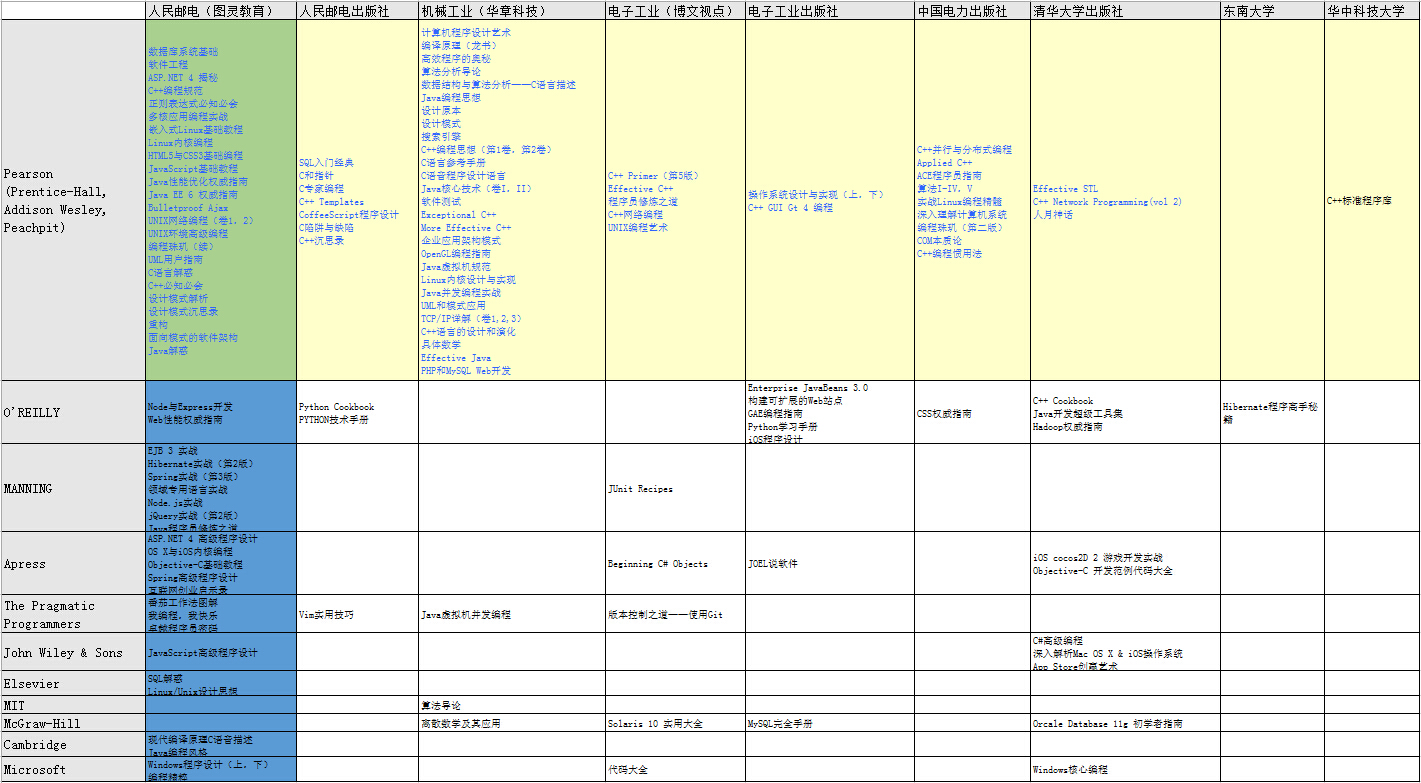
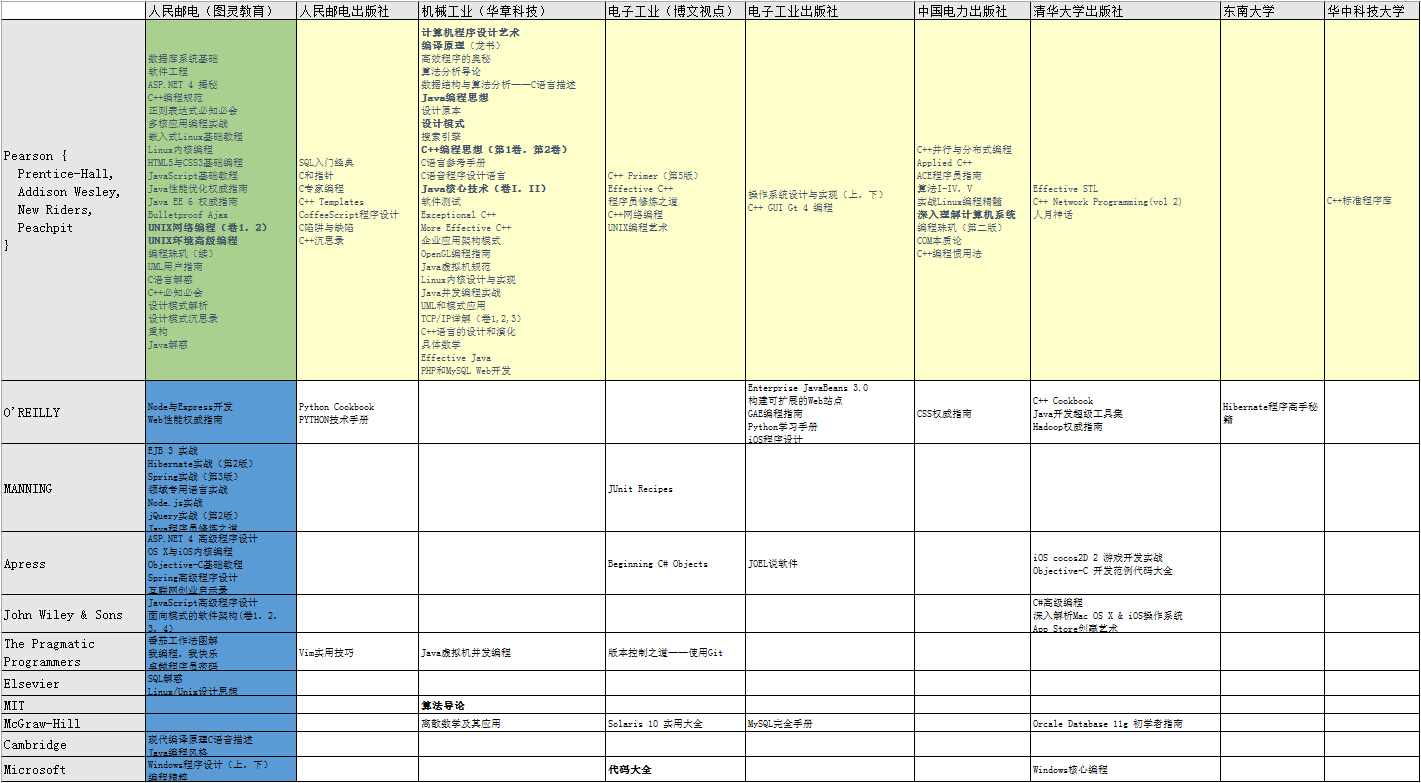
update

diff --git a/_posts/2015-02-28-my-books.md b/_posts/2015-02-28-my-books.md
@@ -1,16 +1,18 @@
 ---
 layout: post
-title:  "图书出版社分布图"
+title:  "关于计算机图书出版社的‘小数据’分析"
 date:   2015-02-28 21:41:00
 tag:    读书
 categories: SharePoint
 ---
-不知道别人有没有这个烦恼，无论按照大小高低、技术分类、出版社分类，家里的书都不太好摆放。今天突发奇想，对书的出版社进行一下归纳，于是做了一个Excel表格出来。
+今天突发奇想，对家里的计算机书的出版社数据进行一下分析。由于数量较少，所以称为“小数据”分析。（以下只统计了国外引进的书，因为这样才会有两个出版社。）
 
 ![press](http://tengrui.github.io/public/upload/book_press.jpg)
 
-（以上只统计了从国外引进的书，因为这样才会有两个出版社。）
+1. 大部分的图书都是Pearson的。这个集团又分为Prentice-Hall，Addison-Wesly，New Riders，Peachpit等子品牌。其中大部分是Prentice-Hall和Addison-Welsly的。
+2. O’REILLY的动物书很有特点，摆放在书架上十分统一。
+3. MANNING的人物肖像系列也占了不少比例，其中大部分是实战系列。
+4. 和Pearson的书对应国内的出版社，主要集中在图灵教育和华章科技两家。
+5. 另外，统计了一下其余国内作者写的书，数量最多的是博文视点的。
 
-可以看出我的大部分的图书都是Pearson出版社的。其次，O’REILLY的动物图书和MANNING的人物书系列也占了不少。而国内出版社主要集中在图灵教育和华章科技两家。
-
-另外很多出版社都有一些“子公司”，例如“图灵教育”，“华章科技”，“博文视点”等。Pearson也有很多不同的子公司，如“Peachpit”，“Addison Wesley”，“Prentice Hall”。
+以后买书，可能会特别注意O’REILLY的书吧，花花绿绿的，最主要比较整齐。
